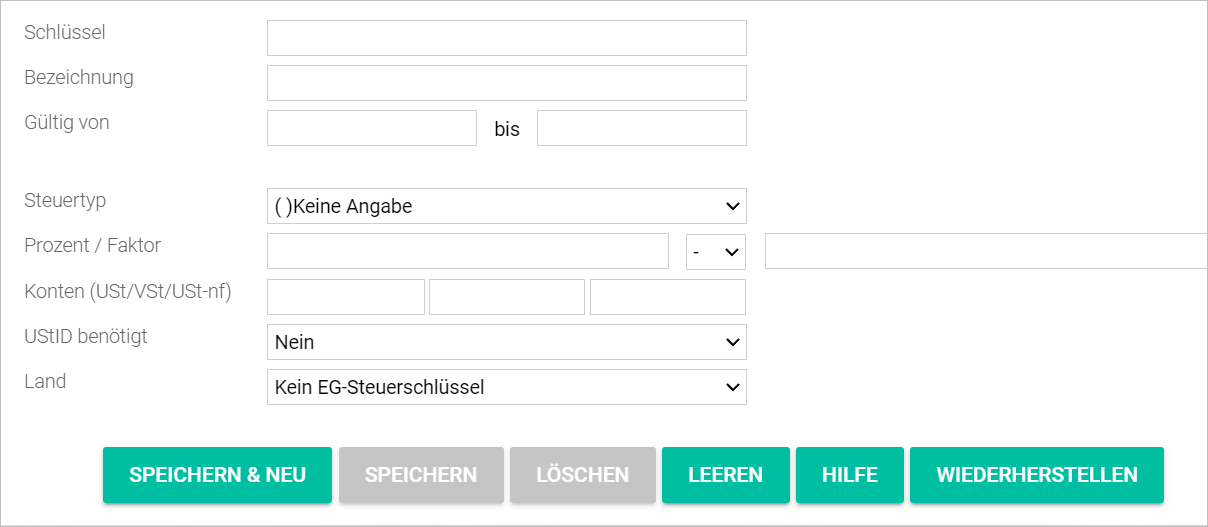
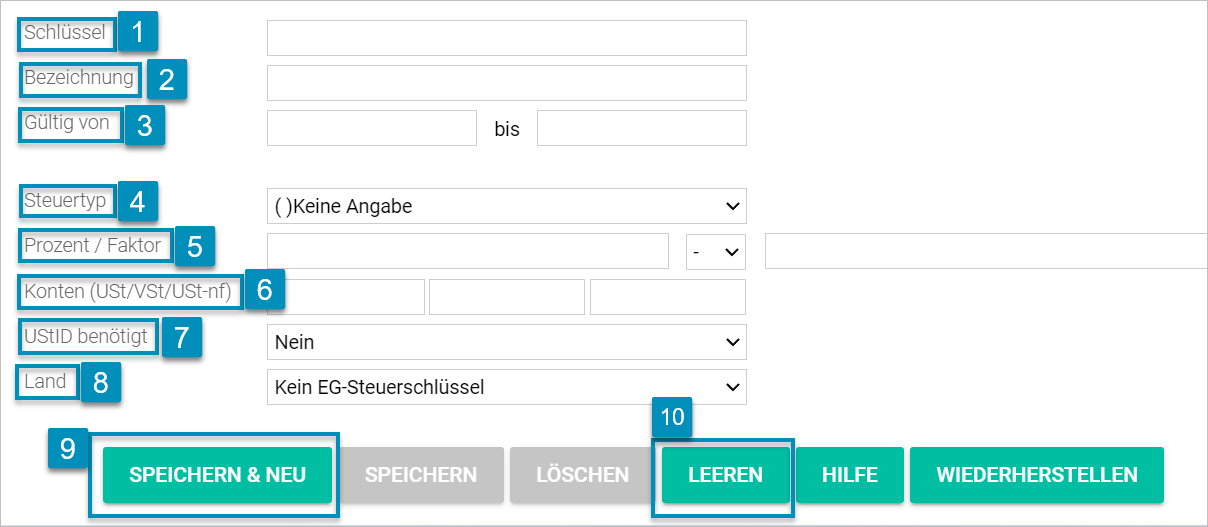
ACD-418
Manage tax keys finished, restore question pending

Changed region(s): [[0.0, 0.334, 0.3063, 1.0], [0.0, 0.0, 0.1838, 0.3036], [0.5207, 0.7287, 0.6738, 1.0]]

diff --git a/Accounting/Integration/02_ManageTaxKeys.md b/Accounting/Integration/02_ManageTaxKeys.md
@@ -2,7 +2,7 @@
 
 # Manage the tax keys
 
-Tax keys are a list of values, each of them linked to a specific tax rate. They are essential for the automatic tax functions, for example the automatic VAT tax booking. Every existing tax rate in the different accounts is assigned a tax key. The module *Invoicing* also extracts data on the applicable tax rate from the tax keys.
+Tax keys are a list of values, each of them linked to a specific tax rate. They are essential for the automatic tax functions, for example the automatic VAT tax booking. Every existing tax rate in the different accounts is assigned a tax key. The module *Invoicing* extracts data on the applicable tax rate from the tax keys.
 
 
 ### Prerequisites
@@ -12,22 +12,20 @@ Tax keys are a list of values, each of them linked to a specific tax rate. They 
 
 ### Procedure
 
-### Create a tax key
-
 *Accounting > Settings > Tax keys*
 
-To create a new tax key, you have to click the button [CLEAR] first.
-The button [SAVE & NEW] is now active.
-
-> [Note] The buttons [SAVE] and [SAVE & NEW] have different functions and exclude each other.
-
+You can create, edit, delete or restore your tax keys.   
 
 ![Tax keys](/Assets/Screenshots/Accounting/Settings/TaxKeys/Settings_TaxKeys.png "[Tax keys]")
 
-1. Click on the button [CLEAR].   
-The existing data are cleared.
+> [Note] The buttons [SAVE] and [SAVE & NEW] have different functions and exclude each other. For this reason, they are not activated simultaneously.
 
-    ![Create a tax key](/Assets/Screenshots/Accounting/Settings/TaxKeys/TaxKeys_Button_Save&New.png "[Create a tax key]")
+### Create a tax key
+
+1. Click on the button [CLEAR].   
+The existing data are cleared. The button [SAVE & NEW] is now activated.
+
+    ![Create a tax key](/Assets/Screenshots/Accounting/Settings/TaxKeys/TaxKeys_Buttons.png "[Create a tax key]")
 
    | (1) | Key |
    |-----|---------------------|
@@ -43,7 +41,7 @@ The existing data are cleared.
 
 2. Enter an available (unassigned) tax key in the field *Key*.
 
-    > [Note] If you use a number that has already been assigned, an error message will be displayed.
+    > [Note] If you use a key that has already been assigned, an error message will be displayed.
 
 3. Enter a description for the tax key in the field *Description*, for example VAT 19%.
 
@@ -55,24 +53,64 @@ The existing data are cleared.
       - **( )VAT**
       - **( )Input tax and VAT**
 
-6.
+6. Enter the appropriate data in the field *Percent / Factor*.
 
+    > [Note] Companies selling products to foreign EU countries must be aware of the applicable VAT in the shipping country. It is recommended to check the validity of the tax rate in the corresponding country and update it accordingly in this field.
 
+7. Enter the appropriate account(s) in the field *Account (VAT/VSt/VAT not due)*.
 
+8. Click the drop-down list *VAT needed* and select the appropriate option (**No/Yes**).
 
+9. Click the drop-down list *Country* and select the appropriate EU country or the option **No EU tax key**.
+
+10. Click the button [SAVE & NEW].  
+The new tax key has been created.
 
 
 ### Edit a tax key
 
-You can use existing tax keys from the previously configured chart of accounts and edit it, for example if a tax percentage must be updated. The button [SAVE] can be used to modify existing tax keys.
+You can edit existing tax keys from the previously configured chart of accounts, for example if a tax percentage must be updated. Use the button [SAVE] to modify existing tax keys.
 
-> [Warning] Be aware that the existing tax key will be then overwritten, that means, that the values stored under the edited tax key will be lost.
+> [Warning] Be aware that the existing tax key will be then overwritten, that means, that the existing tax key will be completely replaced by the edited one.
 
+![Edit a tax key](/Assets/Screenshots/Accounting/Settings/TaxKeys/TaxKeys_Button_Save1.png "[Edit a tax key]")
 
+1. Click on the existing tax key to be edited.   
+The existing data for the selected tax key are displayed in the corresponding fields.
+
+2. Edit the fields as appropriate. Click the button [SAVE].   
+The tax key has been edited. The edited tax key is displayed in the list.
 
 
 ### Delete a tax key
 
+You can delete tax keys that are not applicable to your business. You can also restore the originally configured chart of accounts.
+
+![Delete a tax key](/Assets/Screenshots/Accounting/Settings/TaxKeys/TaxKeys_Button_Delete_Restore.png "[Delete a tax key]")
+
+| (1) | Delete |
+|-----|---------------------|
+| **(2)** | **Restore** |
 
 
-> [Warning] If you information about the consequences of cancelation and deletion
+1. Click the button [DELETE].  
+The selected tax key will be deleted.
+
+    > [Warning] Be aware that the existing tax key will be deleted permanently.
+
+2. Click the button [RESTORE].   
+The tax keys will be restored to their original state.
+
+  > [Warning] Be aware that all manual changes will be lost.
+
+[comment]: <> (To be checked with Flo Heusel.)
+
+### Next steps
+- [Manage the tax keys](#headingID)
+- [Manage the tax keys](#headingID)
+- [Set up an account / check tax rate](#headingID)
+
+### See also
+
+- [Invoicing / Turnover treshold activation](#headingID)
+- [Leistungsarten / Steuersätze / Steuerklasse](#headingID)
